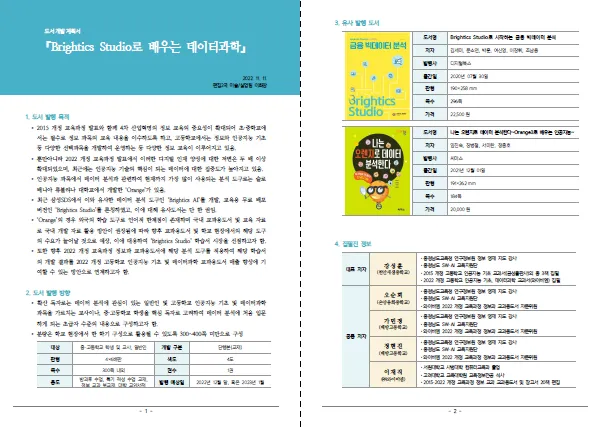
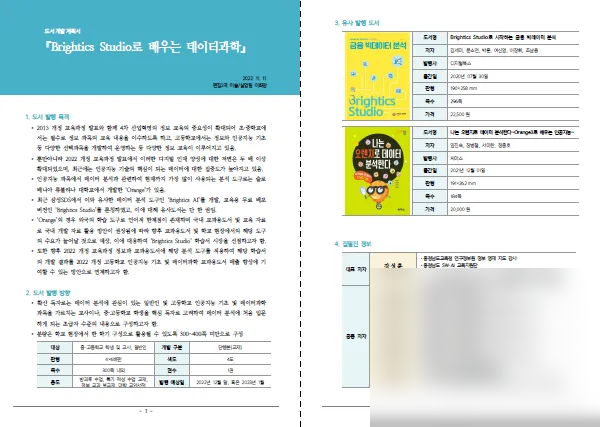
개인정보 전수검사·커버 목업·내비 활성 표시
- 집필진 실명(silgwa-2, brightics-1)·경영진 실명과 내부 메모(datasci-3) 블러 처리
- 갤러리 커버 7종을 브라우저 목업 프레임(뉴트럴 그레이 통일 톤)으로 재생성
- 스크롤 위치 따라 내비 메뉴 활성 하이라이트(scrollspy) 추가

Changed region(s): [[0.629, 0.6089, 0.9584, 0.9133], [0.599, 0.9438, 1.0, 1.0]]

diff --git a/index.html b/index.html
@@ -42,6 +42,7 @@
   .brand{font-family:var(--serif); font-weight:700; font-size:1.06rem; color:var(--text); text-decoration:none; margin-right:auto; letter-spacing:-.01em;}
   nav.toc a{color:var(--text-dim); text-decoration:none; white-space:nowrap; font-size:.85rem; font-weight:500;}
   nav.toc a:hover{color:var(--text);}
+  nav.toc a.active{color:var(--text); box-shadow:inset 0 -2px 0 var(--accent); padding-bottom:2px;}
   nav.toc a.cta-link{color:var(--bg); background:var(--text); padding:8px 18px; border-radius:999px; font-weight:600; font-size:.8rem;}
   nav.toc a.cta-link:hover{background:var(--accent); color:#fff;}
 
@@ -343,7 +344,7 @@
     <h2><span class="num">04</span>Career Portfolio</h2>
     <div class="gallery">
       <a class="pcard" href="#p-cbt">
-        <div class="pcover"><img src="img/cbt-3.png" alt="CBT 시험 개요 화면" loading="lazy"></div>
+        <div class="pcover"><img src="img/cover-cbt.jpg" alt="CBT 시험 개요 화면" loading="lazy"></div>
         <div class="pbody">
           <p class="ptitle"><span class="pnum">No. 01</span>CBT·채점서비스 — 기획부터 개발까지</p>
           <div class="tagrow"><span class="tag">기획</span><span class="tag">개발</span><span class="tag">기여도 100%</span></div>
@@ -351,7 +352,7 @@
         </div>
       </a>
       <a class="pcard" href="#p-aice">
-        <div class="pcover"><img src="img/aice-2.png" alt="AICE 코딩 실습 응시 화면" loading="lazy"></div>
+        <div class="pcover"><img src="img/cover-aice.jpg" alt="AICE 코딩 실습 응시 화면" loading="lazy"></div>
         <div class="pbody">
           <p class="ptitle"><span class="pnum">No. 02</span>AICE 자동 채점기 — 정확도 0% → 90%</p>
           <div class="tagrow"><span class="tag">QA</span><span class="tag">문제 해결</span></div>
@@ -359,7 +360,7 @@
         </div>
       </a>
       <a class="pcard" href="#p-books">
-        <div class="pcover"><img src="img/books-1.png" alt="수험서 편집 진행 가이드 문서" loading="lazy"></div>
+        <div class="pcover"><img src="img/cover-books.jpg" alt="수험서 편집 진행 가이드 문서" loading="lazy"></div>
         <div class="pbody">
           <p class="ptitle"><span class="pnum">No. 03</span>IT 수험서 6종 출간 + 20종 파이프라인</p>
           <div class="tagrow"><span class="tag">책임 편집</span><span class="tag">프로세스 설계</span></div>
@@ -367,7 +368,7 @@
         </div>
       </a>
       <a class="pcard" href="#p-datasci">
-        <div class="pcover"><img src="img/datasci-4.jpg" alt="데이터 과학 교과서 원고 편집" loading="lazy"></div>
+        <div class="pcover"><img src="img/cover-datasci.jpg" alt="데이터 과학 교과서 원고 편집" loading="lazy"></div>
         <div class="pbody">
           <p class="ptitle"><span class="pnum">No. 04</span>고등학교 〈데이터 과학〉 교과서</p>
           <div class="tagrow"><span class="tag">책임 편집</span><span class="tag">기여도 100%</span></div>
@@ -375,7 +376,7 @@
         </div>
       </a>
       <a class="pcard" href="#p-brightics">
-        <div class="pcover"><img src="img/brightics-2.png" alt="Brightics 단행본 체제·초안" loading="lazy"></div>
+        <div class="pcover"><img src="img/cover-brightics.jpg" alt="Brightics 단행본 체제·초안" loading="lazy"></div>
         <div class="pbody">
           <p class="ptitle"><span class="pnum">No. 05</span>Brightics Studio와 함께 배우는 데이터 과학</p>
           <div class="tagrow"><span class="tag">편집 기획</span><span class="tag">외주 관리</span></div>
@@ -383,7 +384,7 @@
         </div>
       </a>
       <a class="pcard" href="#p-silgwa">
-        <div class="pcover"><img src="img/silgwa-1.jpg" alt="초등 실과 교과서 지면" loading="lazy"></div>
+        <div class="pcover"><img src="img/cover-silgwa.jpg" alt="초등 실과 교과서 지면" loading="lazy"></div>
         <div class="pbody">
           <p class="ptitle"><span class="pnum">No. 06</span>초등학교 실과(5~6학년) 정보 단원</p>
           <div class="tagrow"><span class="tag">교육과정 연구</span><span class="tag">편집 기획</span></div>
@@ -391,7 +392,7 @@
         </div>
       </a>
       <a class="pcard" href="#p-gongmo">
-        <div class="pcover"><img src="img/gongmo-2.png" alt="공모 제안서 페이지" loading="lazy"></div>
+        <div class="pcover"><img src="img/cover-gongmo.jpg" alt="공모 제안서 페이지" loading="lazy"></div>
         <div class="pbody">
           <p class="ptitle"><span class="pnum">No. 07</span>교실혁명 선도교사 연수 수행기관 공모</p>
           <div class="tagrow"><span class="tag">공공 사업 제안서</span><span class="tag">기여도 40%</span></div>
@@ -680,6 +681,23 @@ document.documentElement.classList.add('js');
     entries.forEach(function(e){ if(e.isIntersecting){ e.target.classList.add('in'); io.unobserve(e.target); } });
   }, {threshold:.12});
   targets.forEach(function(el){ io.observe(el); });
+})();
+</script>
+<script>
+(function(){
+  var links = Array.prototype.slice.call(document.querySelectorAll('nav.toc a[href^="#"]'))
+    .filter(function(a){ return a.getAttribute('href').length > 1; });
+  var map = {};
+  links.forEach(function(a){ map[a.getAttribute('href').slice(1)] = a; });
+  var secs = Object.keys(map).map(function(id){ return document.getElementById(id); }).filter(Boolean);
+  function onScroll(){
+    var y = window.scrollY + window.innerHeight * 0.35;
+    var current = null;
+    secs.forEach(function(sec){ if(sec.offsetTop <= y) current = sec.id; });
+    links.forEach(function(a){ a.classList.toggle('active', current !== null && a.getAttribute('href') === '#'+current); });
+  }
+  window.addEventListener('scroll', onScroll, {passive:true});
+  onScroll();
 })();
 </script>
 </body>
